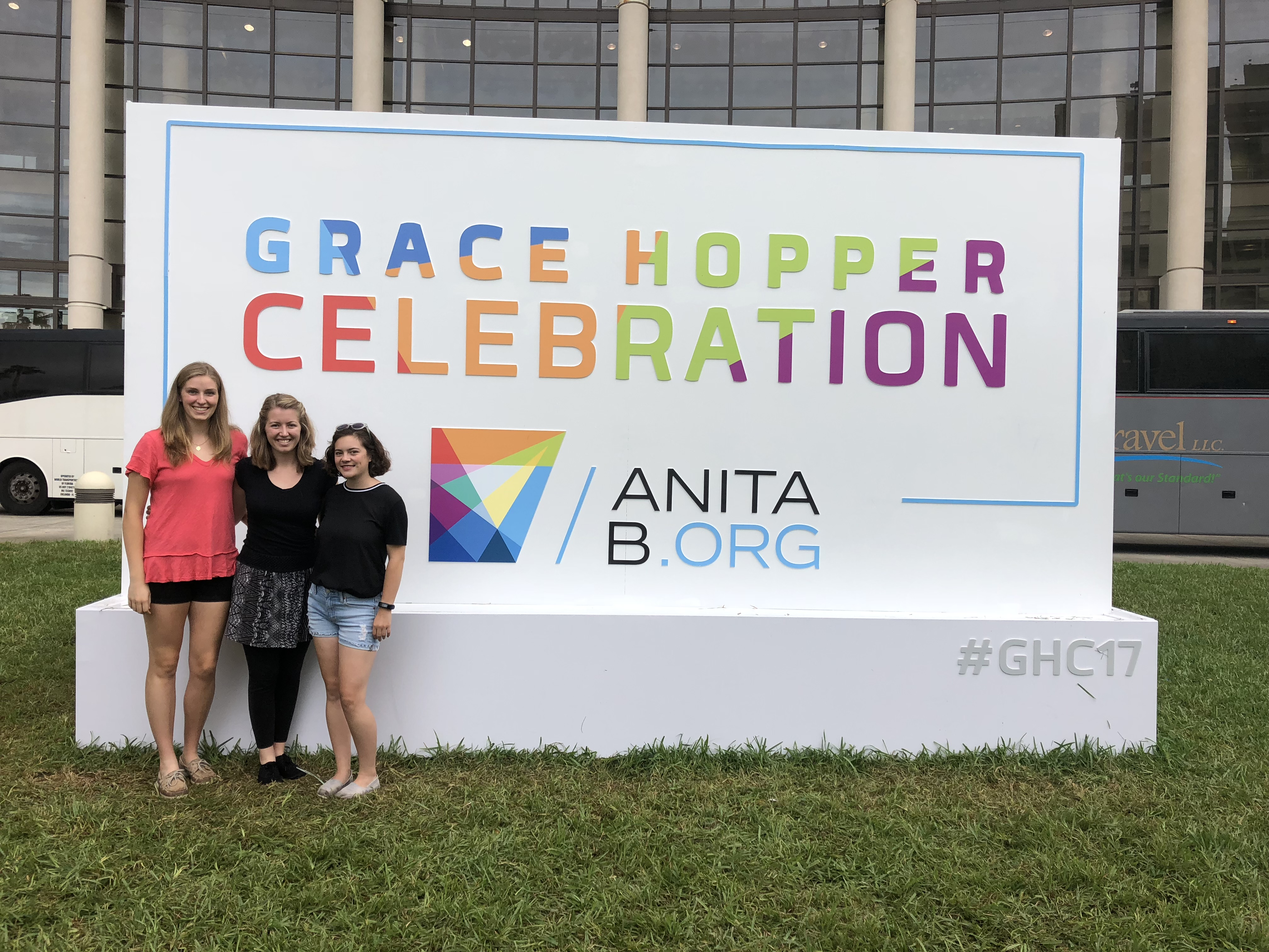
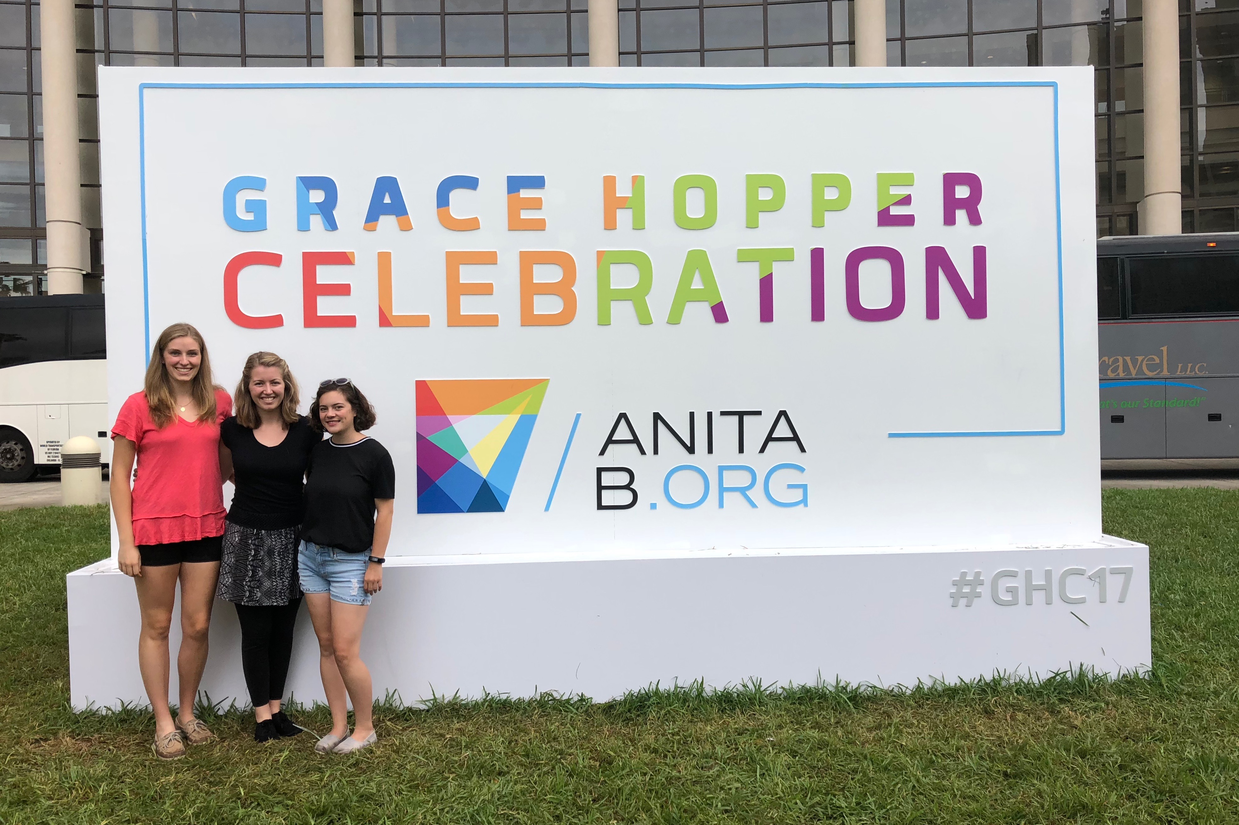
updated pictures centered images

diff --git a/index.html b/index.html
@@ -58,13 +58,14 @@
 
 <!--section two-->
 <section id ="section_two">
-  <div></div>
-        <h3 class = "text-center pt-5 pb-3 white-text" id = "library">Student Acomplishments</h3>
+  <div>
+        <h3 class = "text-center pt-5 pb-3 white-text" id = "currStu">Current Students</h3>
+        <p class = "text-center white-text">Click on a photo to learn more!</p>
         <br>
 <div class="container">
   <div class="row">
     <div class="col-sm">
-      <!-- first student accomplishment -->
+      <!-- Hannah  -->
        <img class="stuProf" 
             src="res/img/han.jpg" 
             alt="Hannah Profile Image"
@@ -106,7 +107,7 @@
     <div class="col-sm">
       <!-- second student accomplishment -->
       <img class="stuProf" 
-            src="res/img/eln 2.jpg" 
+            src="res/img/el2.jpg" 
             alt="Elaina Profile Image"
             data-toggle="modal" 
             data-target="#ElainaModal">
@@ -140,7 +141,7 @@
     <div class="col-sm">
       <!-- third student accomplishment -->
       <img class="stuProf" 
-            src="res/img/maria.jpg" 
+            src="res/img/mar.jpg" 
             alt="Maria Profile Image"
             data-toggle="modal" 
             data-target="#MariaModal">
@@ -169,6 +170,43 @@
 
       </section>
     </div>
+
+<section id ="section_three">
+
+<div class="row">
+  
+</div>
+
+
+<!--    <div class="row">
+  <div id="carouselExampleControls" class="carousel slide" data-ride="carousel">
+  <div class="carousel-inner">
+    <div class="carousel-item active">
+      <img class="d-block w-100" src="res/img/GHC2.jpg" alt="First slide">
+    </div>
+    <div class="carousel-item">
+      <img class="d-block w-100" src="res/img/hack.jpg" alt="Second slide">
+    </div>
+    <div class="carousel-item">
+      <img class="d-block w-100" src="" alt="Third slide">
+    </div>
+  </div>
+  <a class="carousel-control-prev" href="#carouselExampleControls" role="button" data-slide="prev">
+    <span class="carousel-control-prev-icon" aria-hidden="true"></span>
+    <span class="sr-only">Previous</span>
+  </a>
+  <a class="carousel-control-next" href="#carouselExampleControls" role="button" data-slide="next">
+    <span class="carousel-control-next-icon" aria-hidden="true"></span>
+    <span class="sr-only">Next</span>
+  </a>
+</div>
+</div>-->
+
+
+
+
+</section>
+
 
 <footer>
         <!-- jQuery first, then Popper.js, then Bootstrap JS -->

diff --git a/res/css/style.css b/res/css/style.css
@@ -13,6 +13,8 @@ a {
 .stuProf{
   width: 250px;
   height: auto;
+  display: block;;
+  margin: 0 auto;
   border-radius: 25px;
 }
 /*Text classes*/
@@ -90,8 +92,12 @@ header {
 }
 #section_three {
   width: 100%;
-  background-image: url("../img/bg/subtle_white_feathers.png");
+  background-image: url("../img/gray_sand.png");
 }
+#carousel-inner{
+  width: 75%;
+}
+
 #iconic{
   height: 300px;
 }
@@ -100,11 +106,11 @@ header {
   width: 250px !important;
 }
 
-.sell-form {
-  background-color: white;
-  padding: 20px;
-  border-radius: 10px;
-  box-shadow: 0px 0px 10px 5px rgba(0,0,0,0.1);
+..img-center {
+    display: block;
+    margin: 0 auto;
+}
+
 }
 form .input-group {
   height: 40px;
